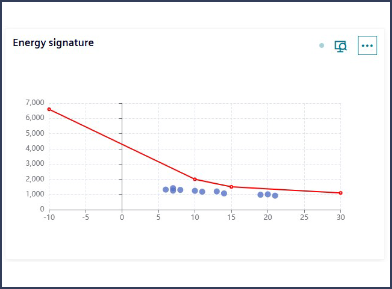
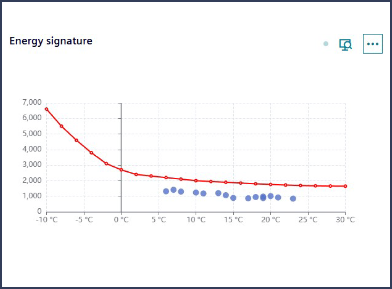
updates

diff --git a/src/5_MonthYearComparison.js b/src/5_MonthYearComparison.js
@@ -5,27 +5,19 @@
 // Trend calculation period = 1 Month
 
 
-// Data retrieval and transformation
-// ---------------------------------
+// Data collection and transformation
+// ----------------------------------
+const data_month = widget.parameters.map(param => {
+  const lastValue = param.data[param.data.length - 1].value;
+  return { value: lastValue, name: param.name };
+});
 
-// Get the size of the array element (number of month within this year)
-var numberOfMonth = __data[0].length;
+const data_year = widget.parameters.map(param => {
+  const total = param.data.reduce((sum, item) => sum + item.value, 0);
+  return { value: total, name: param.name };
+});
 
-// Get the values of last month out of parameter 1,2,3
-var month_1 = widget.parameters[0].data[numberOfMonth - 1].value;
-var month_2 = widget.parameters[1].data[numberOfMonth - 1].value;
-var month_3 = widget.parameters[2].data[numberOfMonth - 1].value;
-
-var year_1 = 0;
-var year_2 = 0;
-var year_3 = 0;
-
-// Get the values of whole year out of parameters 1,2,3 by adding each monthly value
-for (let i = 0; i < numberOfMonth; i++) {
-  year_1 = year_1 + widget.parameters[0].data[i].value;
-  year_2 = year_2 + widget.parameters[1].data[i].value;
-  year_3 = year_3 + widget.parameters[2].data[i].value;
-}
+const legendData = widget.parameters.map(param => param.name);
 
 // Widget configuration
 // --------------------
@@ -35,16 +27,12 @@ return {
 // Tooltip configuration
   tooltip: {
     trigger: 'item',
-    formatter: '{a}: {b} = {c} ({d}%)'	// Formatter for the tooltip content: {a} series name, {b} data item name, {c} data value, {d} percentage
+    formatter: '{a}: {b} = {c}kWh ({d}%)'	// Formatter for the tooltip content: {a} series name, {b} data item name, {c} data value, {d} percentage
   },
 
   // Legend configuration
   legend: {
-    data: [
-      'Electrictiy', //__parameterName[0],
-      'Water', 		//__parameterName[1],
-      'Gas' 		//__parameterName[2]
-    ]
+    data: legendData
   },
 
   // Series configuration: defines the actual charts to be displayed
@@ -63,19 +51,7 @@ return {
         show: true
       },
 	  // Data points for the monthly pie chart
-      data: [{
-          value: month_1.toFixed(1),
-          name: 'Electrictiy' //__parameterName[0]
-        },
-        {
-          value: month_2.toFixed(1),
-          name: 'Water' //__parameterName[1]
-        },
-        {
-          value: month_3.toFixed(1),
-          name: 'Gas' //__parameterName[2]
-        }
-      ]
+      data: data_month
     },
     {
 	  // Second pie chart series: Represents yearly consumption
@@ -89,19 +65,7 @@ return {
         formatter: '{d}%',		// Format labels to show only the percentage
       },
 	  // Data points for the yearly pie chart
-      data: [{
-          value: year_1.toFixed(1),
-          name: 'Electrictiy' //_parameterName[0]
-        },
-        {
-          value: year_2.toFixed(1),
-          name: 'Water' //__parameterName[1]
-        },
-        {
-          value: year_3.toFixed(1),
-          name: 'Gas' //__parameterName[2]
-        }
-      ]
+      data: data_year
     }
   ]
 };

diff --git a/src/4_KpiCalculation.js b/src/4_KpiCalculation.js
@@ -1,21 +1,26 @@
-// Date settings > Mixed = 1 Year (31.12.2024 23:00 - 31.12.2025 23:00)
+// Date settings > Mixed = 1 Year (31.12.2025 23:00 - 31.12.2026 23:00)
 // Parameter 0 (parameters[0]) > e.g. Energy consumption
 // Trend calculation period = 1 Month
 
 
-// 1. Data Retrieval and Initialization
-// ------------------------------------
+// Data collection and transformation
+// ---------------------------------
 
 // Get the size of the array element (number of month within this year)
 var array_size = __data[0].length;
+
 // Get the value of last month
-var sum_last = widget.parameters[0].data[array_size - 2].value;
+if (array_size = 1) {
+  var sum_last = widget.parameters[0].data[0].value;
+} else {
+  var sum_last = widget.parameters[0].data[array_size - 2].value;
+}
 // Get the value of current month
 var sum_current = widget.parameters[0].data[array_size - 1].value;
 
 
-// 2. KPI Calculation
-// ------------------
+// KPI calculation
+// ---------------
 
 // Here: Comparison of current month with last month (in %)
 var percentPrevious = sum_last / 100;
@@ -23,8 +28,8 @@ var percentCurrent = sum_current / percentPrevious;
 var percent = percentCurrent - 100;
 
 
-// 3. Widget Configuration
-// -----------------------
+// Widget configuration
+// --------------------
 
 return {
   series: [{

diff --git a/src/3_EnergySignature.js b/src/3_EnergySignature.js
@@ -1,3 +1,29 @@
+
+// fix signature values
+const signature = [
+  [-10, 6600],
+  [-8, 5500],
+  [-6, 4600],
+  [-4, 3800],
+  [-2, 3100],
+  [0, 2700],
+  [2, 2400],
+  [4, 2300],
+  [6, 2200],
+  [8, 2100],
+  [10, 2000],
+  [12, 1950],
+  [14, 1900],
+  [16, 1850],
+  [18, 1800],
+  [20, 1760],
+  [22, 1720],
+  [24, 1690],
+  [26, 1670],
+  [28, 1655],
+  [30, 1650]
+];
+
 // Initialize an empty array to store datapoints
 const datapoints = [];
 
@@ -25,11 +51,11 @@ const dataseries = datapoints.map(dp => [dp.temperature, dp.energy]);
 return {
   tooltip: {
     trigger: 'axis', 	// Show tooltip when hovering over axis
-    axisPointer: {
-      type: 'cross' 	// Use a crosshair pointer
-    }
   },
   xAxis: {
+	axisLabel: {
+      formatter: '{value} °C'
+    },
     splitLine: {
       lineStyle: {
         type: 'dashed' 	// Dashed grid lines on the x-axis

diff --git a/README.md b/README.md
@@ -30,12 +30,12 @@ Bar, Line, Pie, Scatter, Radar, Tree, Boxplot, Heatmap, Map, Graph, Sankey, Gaug
 
 ### Examples
 
-|            |           |
+| > Click on graphic to **download** JavaScript code           |           |
 | :--------: | :-------: |
-| <sup>Click graphic to **download** JavaScript code</sup><br>[![UseCase1](/docs/graphics/UseCase_1_Beijing.png "Click here to open JavaScript code")](/src/1_Beijing.js) <br>**Widget Beijing AQI**<br> to visualize limit deviations<br>in production | <sup>Click graphic to **download** JavaScript code</sup><br>[![UseCase2](/docs/graphics/UseCase_2_RadialPolarBar.png "Click here to open JavaScript code")](/src/2_RadialPolarBar.js)<br>**Widget Radial Polar Bar**<br>to visualize distribution<br>of production times |
-| <sup>Click graphic to **download** JavaScript code</sup><br>[![UseCase3](/docs/graphics/UseCase_3_EnergySignature.png "Click here to open JavaScript code")](/src/3_EnergySignature.js) <br>**Energy signature**<br>to visualize consumptions<br>against a trendline | <sup>Click graphic to **download** JavaScript code</sup><br>[![UseCase4](/docs/graphics/UseCase_4_KpiCalculation.png "Click here to open JavaScript code")](/src/4_KpiCalculation.js) <br>**KPI calculation**<br>to represent<br>as individual as possible  |
-| <sup>Click graphic to **download** JavaScript code</sup><br>[![UseCase5](/docs/graphics/UseCase_5_MonthYearComparison.png "Click here to open JavaScript code")](/src/5_MonthYearComparison.js) <br>**Month/Year comparison**<br>to visualize consumptions<br>over time | <sup>Click graphic to **download** JavaScript code</sup><br>[![UseCase6](/docs/graphics/ "Click here to open JavaScript code")](/src/4_KpiCalculation.js) <br>**yyy**<br>to yyy<br>yyy  |
-|  Click graphic to **open** ECharts library<br>[![UseCase100](/docs/graphics/UseCase_100_MoreExamples.png "Click here to open ECharts library")](https://echarts.apache.org/examples/en/index.html)<br>**Explore more examples**<br>in the ECharts library |...|
+| [![UseCase1](/docs/graphics/UseCase_1_Beijing.png "Click here to open JavaScript code")](/src/1_Beijing.js) <br>**Widget Beijing AQI**<br> to visualize limit deviations<br>in production | [![UseCase2](/docs/graphics/UseCase_2_RadialPolarBar.png "Click here to open JavaScript code")](/src/2_RadialPolarBar.js)<br>**Widget Radial Polar Bar**<br>to visualize distribution<br>of production times |
+| [![UseCase3](/docs/graphics/UseCase_3_EnergySignature.png "Click here to open JavaScript code")](/src/3_EnergySignature.js) <br>**Energy signature**<br>to visualize consumptions<br>against a trendline | [![UseCase4](/docs/graphics/UseCase_4_KpiCalculation.png "Click here to open JavaScript code")](/src/4_KpiCalculation.js) <br>**KPI calculation**<br>to represent<br>as individual as possible  |
+| [![UseCase5](/docs/graphics/UseCase_5_MonthYearComparison.png "Click here to open JavaScript code")](/src/5_MonthYearComparison.js) <br>**Month/Year comparison**<br>to visualize consumptions<br>over time | [![UseCase6](/docs/graphics/ "Click here to open JavaScript code")](/src/4_KpiCalculation.js) <br>**yyy**<br>to yyy<br>yyy  |
+|  [![UseCase100](/docs/graphics/UseCase_100_MoreExamples.png "Click here to open ECharts library")](https://echarts.apache.org/examples/en/index.html)<br>**Explore more examples**<br>in the ECharts library |...|
 
 ### General task
 
